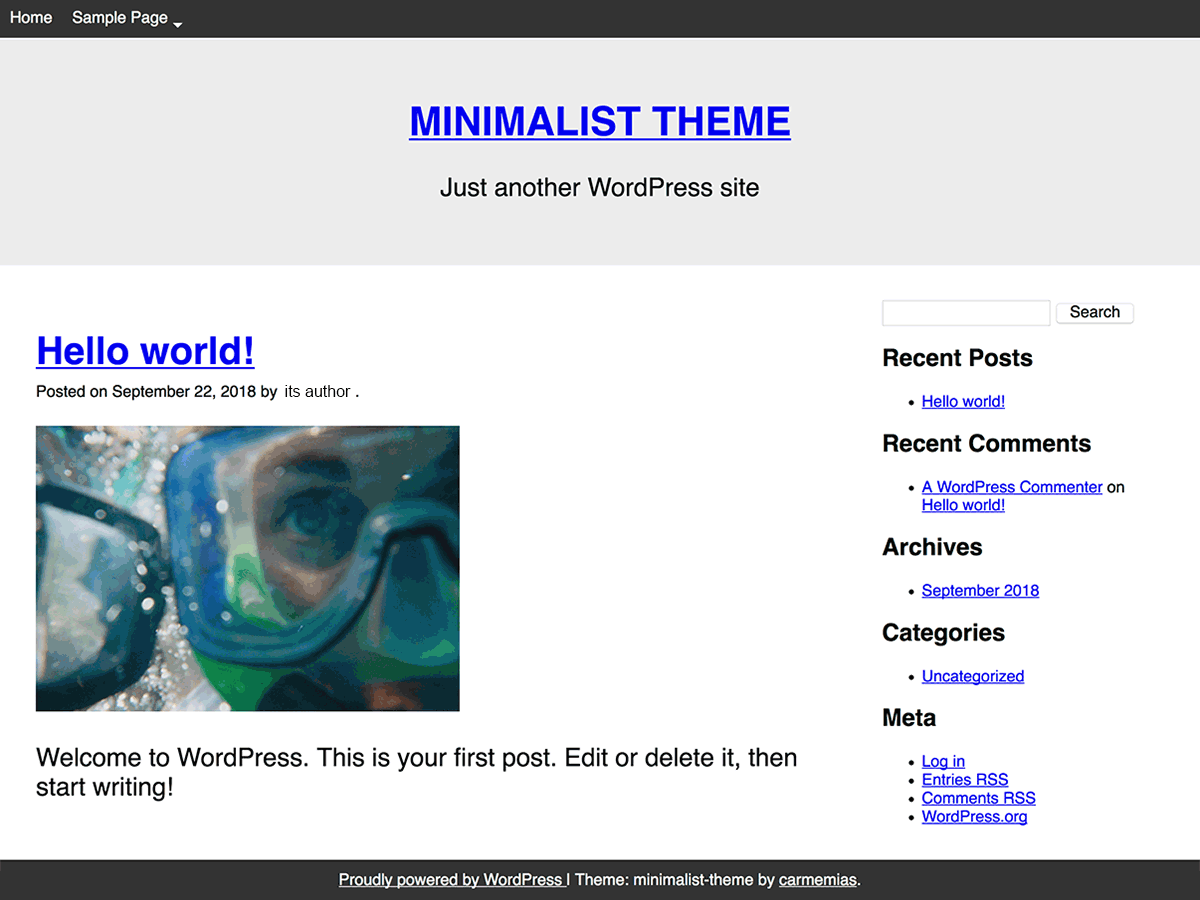
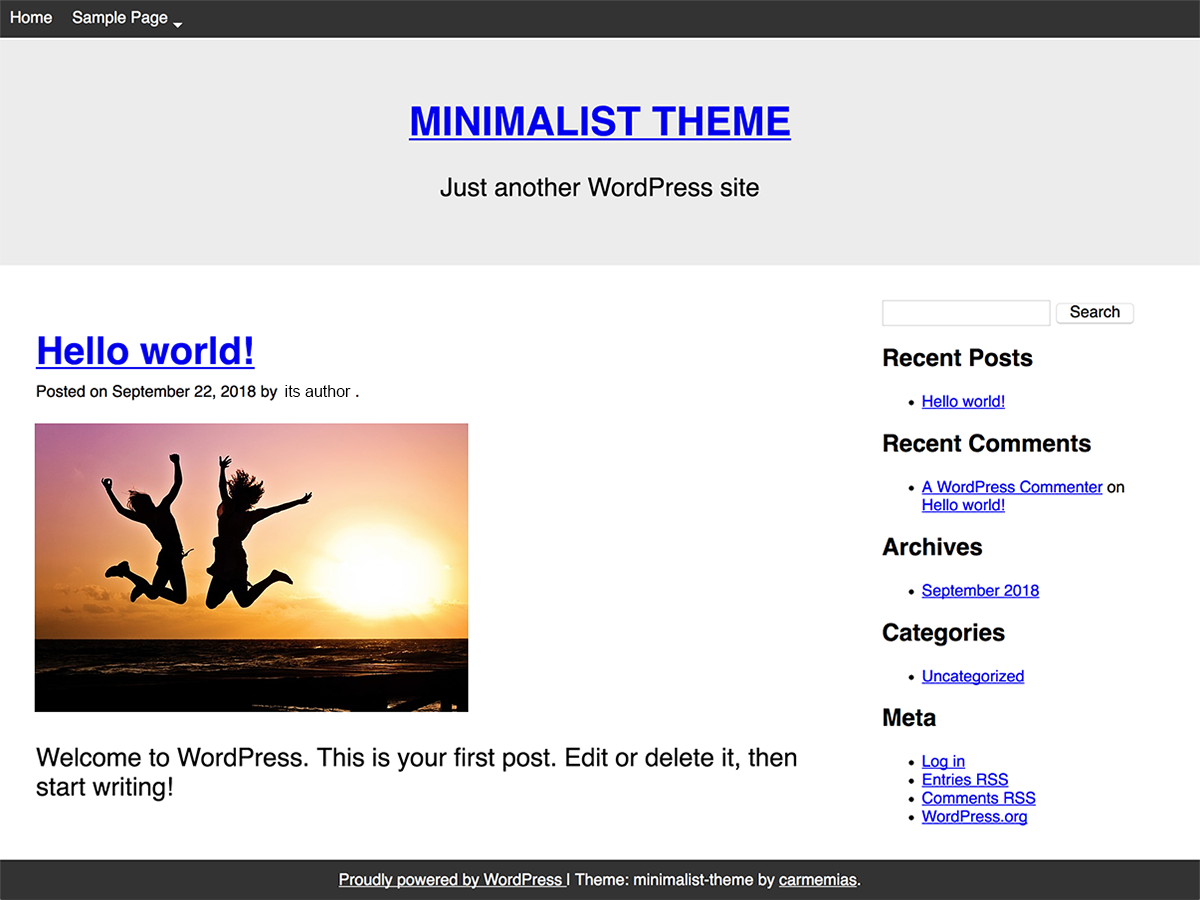
thumbnail image and screenshot.png

Changed region(s): [[0.0308, 0.4667, 0.4008, 0.8089]]

diff --git a/style.css b/style.css
@@ -225,6 +225,11 @@ body {
 	margin-bottom: 1.5rem;
 }
 
+.attachment-post-thumbnail,
+.wp-post-image {
+	max-width:100%;
+}
+
 /*--------------------------------------------------------------
 # Footer
 --------------------------------------------------------------*/
